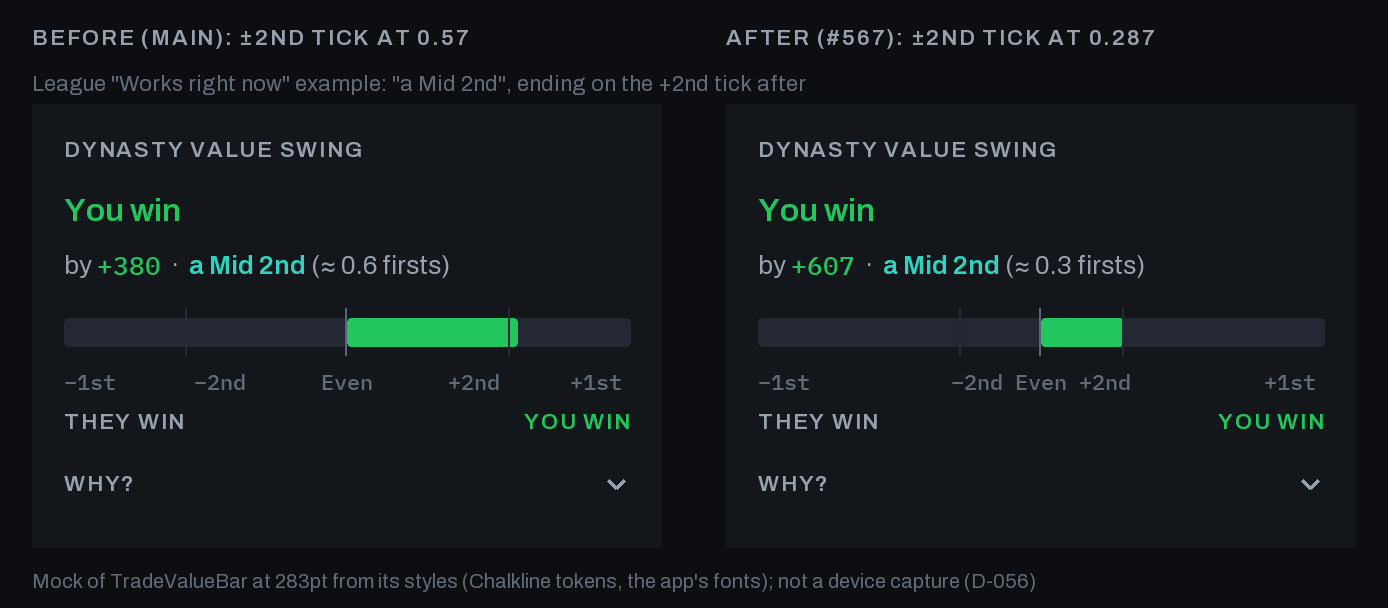
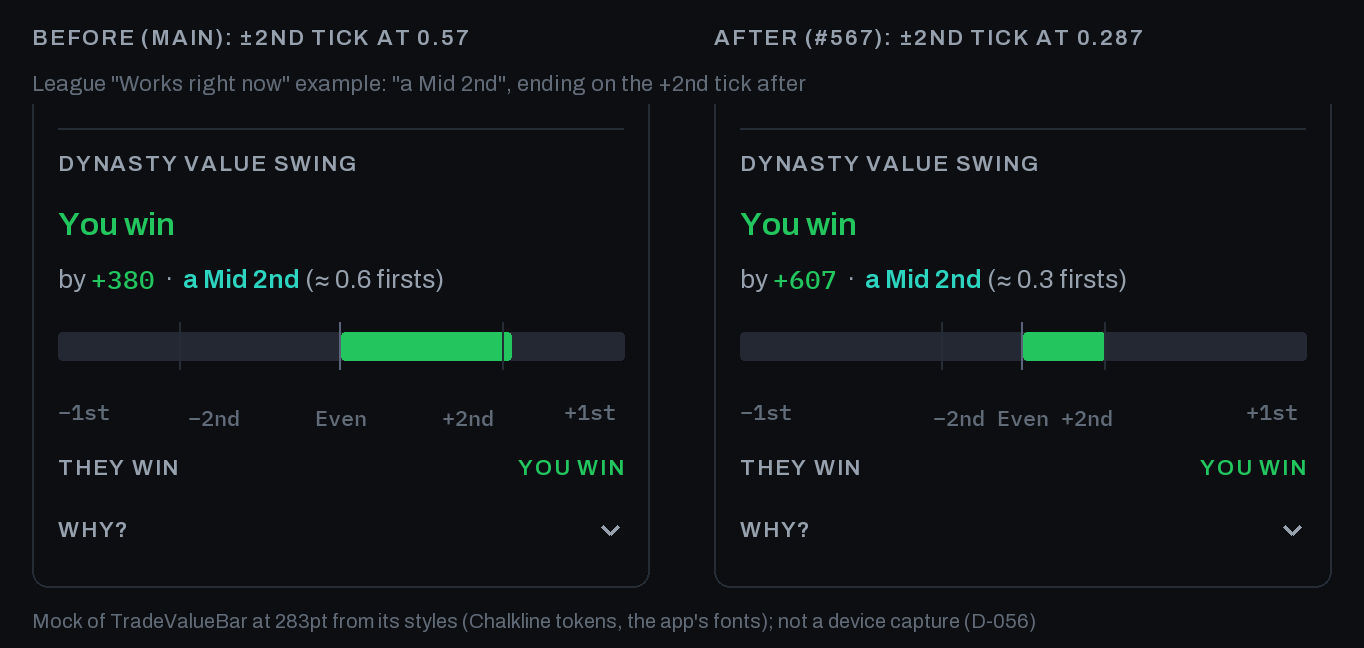
Value bar: renders R1-R4 and an Even case; checklist steps 4-5 name the league they need; crowding called a regression (#567 delta QA)

diff --git a/docs/plans/value-bar-scale/renders/render.py b/docs/plans/value-bar-scale/renders/render.py
@@ -96,37 +96,54 @@ def short_pick(label_):
     return ("an " if core[0] in "AEIOU" else "a ") + core
 
 
-def bar(W, favors, gap, second_in_firsts):
-    """One TradeValueBar, W pt wide, on the ink1 card it sits in (16pt pad)."""
-    pad = 16
-    img = Image.new("RGB", ((W + 2 * pad) * S, 260 * S), INK1)
+def bar(W, favors, gap, second_in_firsts, them="They", surface="deck"):
+    """One TradeValueBar, W pt of bar, in the surface it sits in: a deck card
+    (ink1, 16pt padding), or the League example card's lower half (ink0, 12pt
+    padding inside a 1pt ink.line border, the bar under a hairline with 10pt
+    above it: LeagueScreen exTrade / exValueBar)."""
+    league = surface == "league"
+    pad, bg = (12, INK0) if league else (16, INK1)
+    edge = 1 if league else 0
+    img = Image.new("RGB", ((W + 2 * pad + 2 * edge) * S, 300 * S), bg)
     d = ImageDraw.Draw(img)
-    x0, y = pad * S, pad * S
+    x0, y = (pad + edge) * S, pad * S
+    if league:                                            # exValueBar's hairline
+        d.rectangle((x0, y, x0 + W * S - 1, y + S - 1), fill=LINE)
+        y += S + 10 * S
+    even = favors in ("even", None)
     you_win = favors == "receive"
-    fill_c = POS if you_win else WARN
+    fill_c = ICE if even else POS if you_win else WARN
     firsts = abs(gap["firsts"])
-    frac = min(1, firsts) * (1 if you_win else -1)
+    frac = 0 if even else min(1, firsts) * (1 if you_win else -1)
     pick = gap["pick_equivalent"]
+    winner = None if even else "You" if you_win else them
 
     label(d, x0, y, "Dynasty value swing", DIM)
-    y += 14 * S + 8 * S                                   # gap space.sm
+    y += 14 * S + 8 * S                                   # wrap gap space.sm
     y += 4 * S                                            # winner marginTop
-    text(d, x0, y, ("You" if you_win else "They") + " win", UI_SEMI(16), fill_c, 22)
+    text(d, x0, y, "Even" if even else f"{winner} win", UI_SEMI(16), BASE if even else fill_c, 22)
     y += 22 * S + 8 * S
     x = x0
-    x += text(d, x, y, "by ", UI(13), DIM, 18)
-    x += text(d, x, y, ("+" if you_win else "−") + f"{round(gap['value']):,}", DATA(13), fill_c, 18)
-    x += text(d, x, y, "  ·  ", UI(13), DIM, 18)
-    x += text(d, x, y, short_pick(pick["label"]), UI_SEMI(13), FIRST_1, 18)
-    text(d, x, y, f" (≈ {firsts:.1f} firsts)", UI(13), DIM, 18)
-    y += 18 * S + 8 * S
+    if even:
+        x += text(d, x, y, "Within a rounding error — ", UI(13), DIM, 18)
+        x += text(d, x, y, f"{round(gap['value']):,}", DATA(13), BASE, 18)
+        text(d, x, y, " apart" + (f" (≈ {gap['firsts']:.1f} firsts)" if gap["firsts"] else ""), UI(13), DIM, 18)
+    else:
+        x += text(d, x, y, "by ", UI(13), DIM, 18)
+        x += text(d, x, y, ("+" if you_win else "−") + f"{round(gap['value']):,}", DATA(13), fill_c, 18)
+        x += text(d, x, y, "  ·  ", UI(13), DIM, 18)
+        x += text(d, x, y, short_pick(pick["label"]), UI_SEMI(13), FIRST_1, 18)
+        text(d, x, y, f" (≈ {firsts:.1f} firsts)", UI(13), DIM, 18)
+    y += 18 * S + 8 * S                                   # wrap gap
 
     y += 8 * S                                            # track marginTop
     tw = W * S
-    rail_top = y + 1 * S
+    rail_top = y + 1 * S                                  # 14pt rail centred in 16
     d.rounded_rectangle((x0, rail_top, x0 + tw, rail_top + 14 * S), radius=2 * S, fill=INK3)
     mid = x0 + tw / 2
-    if frac > 0:
+    if even:                                              # the centred 6pt nub
+        d.rounded_rectangle((mid - 3 * S, rail_top, mid + 3 * S, rail_top + 14 * S), radius=2 * S, fill=ICE)
+    elif frac > 0:
         d.rounded_rectangle((mid, rail_top, mid + frac * tw / 2, rail_top + 14 * S), radius=2 * S, fill=fill_c)
     else:
         d.rounded_rectangle((mid + frac * tw / 2, rail_top, mid, rail_top + 14 * S), radius=2 * S, fill=fill_c)
@@ -135,32 +152,39 @@ def bar(W, favors, gap, second_in_firsts):
         tx = x0 + tw * p / 100
         d.rectangle((tx, y - 4 * S, tx + S - 1, y + 20 * S - 1), fill=LINE)
     d.rectangle((mid - S, y - 4 * S, mid - 1, y + 20 * S - 1), fill=LINE_A11Y)
-    y += 16 * S + 8 * S                                   # scale row marginTop
+    y += 16 * S + 8 * S + 8 * S                           # wrap gap + scale row marginTop
 
     scale = DATA(11)
     text(d, x0, y, "−1st", scale, FAINT, 18)
     text(d, x0 + tw - 30 * S, y, "+1st", scale, FAINT, 18)
     frame_x, frame_w = x0 + 30 * S, tw - 60 * S
-    for p, s in ((second_pct, "−2nd"), (50, "Even"), (100 - second_pct, "+2nd")):
-        cx = frame_x + frame_w * p / 100
-        text(d, cx - width(d, s, scale) / 2, y, s, scale, FAINT, 18)
-    y += 18 * S + 4 * S                                   # end row marginTop
-    label(d, x0, y, "They win", DIM if you_win else fill_c)
+    for p, s_ in ((second_pct, "−2nd"), (50, "Even"), (100 - second_pct, "+2nd")):
+        cx = frame_x + frame_w * p / 100                  # the 12pt middle frame,
+        text(d, cx - width(d, s_, scale) / 2, y + 3 * S, s_, scale, FAINT, 18)  # centred in 18
+    y += 18 * S + 8 * S + 4 * S                           # wrap gap + end row marginTop
+    them_end = f"{them} win"
+    label(d, x0, y, them_end, fill_c if winner == them else DIM)
     yw = width(d, "YOU WIN", UI_SEMI(11), 0.88)
     label(d, x0 + tw - yw, y, "You win", fill_c if you_win else DIM)
-    y += 14 * S + 8 * S
+    y += 14 * S + 8 * S                                   # wrap gap
     wy = y + 9 * S                                        # "Why?" row, minHeight 32
     label(d, x0, wy, "Why?", DIM)
     cx, cy = x0 + tw - 7 * S, wy + 7 * S                  # chevron-down, 14pt
     d.line((cx - 4 * S, cy - 2 * S, cx, cy + 2 * S, cx + 4 * S, cy - 2 * S), fill=DIM, width=round(1.5 * S))
     y += 32 * S + pad * S
-    return img.crop((0, 0, img.width, y))
+    img = img.crop((0, 0, img.width, y + edge * S))
+    if league:                                            # the card's border
+        d = ImageDraw.Draw(img)
+        w_, h_ = img.width, img.height
+        d.rounded_rectangle((0, -8 * S, w_ - 1, h_ - 1), radius=8 * S, outline=LINE, width=S)
+    return img
 
 
-def sheet(name, W, cases):
+def sheet(name, W, cases, them="They", surface="deck"):
     """Rows of cases, a before (0.57) and an after (0.287) column each."""
     cols = [("Before (main): ±2nd tick at 0.57", 0.57), ("After (#567): ±2nd tick at 0.287", 0.287)]
-    tiles = [[bar(W, favors, gap_b if i == 0 else gap_a, second) for i, (_, second) in enumerate(cols)]
+    tiles = [[bar(W, favors, gap_b if i == 0 else gap_a, second, them, surface)
+              for i, (_, second) in enumerate(cols)]
              for _, favors, gap_b, gap_a in cases]
     m, top, gap_x, row_h = 16 * S, 34 * S, 32 * S, 26 * S
     tw, th = tiles[0][0].width, max(t.height for row in tiles for t in row)
@@ -183,13 +207,17 @@ def sheet(name, W, cases):
 
 mid_2nd = elo_to_value(GENERIC_PICK_SEEDS[(2, "Mid")])
 early_2nd = elo_to_value(GENERIC_PICK_SEEDS[(2, "Early")])
-# A calculator or deck card on a 375pt phone (317pt of bar).
+# A deck card on a 375pt phone (317pt of bar; TradeCard passes the partner's
+# handle as themLabel). The calculator's bar is 309pt, the same drawing.
+even = {**gap_for(250), "pick_equivalent": None}
 sheet("before-after-317.png", 317, [
     ("You win by an Early 2nd: the fill ends past the +2nd tick (it stopped short of it before)",
      "receive", gap_for(early_2nd), gap_for(early_2nd)),
-    ("They win by a Mid 2nd: the fill ends on the −2nd tick",
+    ("@mike_dynasty wins by a Mid 2nd: the fill ends on the −2nd tick",
      "give", gap_for(mid_2nd), gap_for(mid_2nd)),
-])
+    ("Even (250 apart): the centred nub, unchanged; only the ticks move",
+     "even", even, even),
+], them="@mike_dynasty")
 # The League "Works right now" example card (283pt of bar): main's fixture
 # (380, 0.6 firsts, "a Mid 2nd") before, today's Mid 2nd after (P2-1).
 old_example = {"value": 380, "firsts": 0.6,
@@ -199,5 +227,5 @@ new_example = {"value": 607, "firsts": 0.29,
 sheet("before-after-283.png", 283, [
     ("League \"Works right now\" example: \"a Mid 2nd\", ending on the +2nd tick after",
      "receive", old_example, new_example),
-])
+], surface="league")
 print("ok")

diff --git a/docs/plans/value-bar-scale/scope.md b/docs/plans/value-bar-scale/scope.md
@@ -17,7 +17,7 @@
 - **The League "Works right now" example** (`LeagueScreen.tsx` `EXAMPLE_GAP`, every user with no matches sees it) was the clients' only static gap. It said "a Mid 2nd (≈ 0.6 firsts)" at 380, which with the new tick fills far past it. It's now what the server would send for a Mid 2nd gap: 607, 0.29 firsts, pick value 606.5 (release-lead's #567 QA P2-1).
 - **What this doesn't cover:**
   - **A live prod `elo_value_k` change** moves the server's values, and so #564's share-card bar and its snapshots, but not the app's constant or the web miniature, with CI green: the pin reads the code's seeds and curve, not prod's `model_config`. If `elo_value_k` is ever changed live, this constant must follow by hand.
-  - **Label crowding:** the ±2nd labels sit in a frame inset 30pt from each end while the ticks span the whole track, so each label sits about 8.6pt inboard of its tick. With the ticks closer to "Even", "−2nd" and "+2nd" overlap "Even" from text scale 1.21 at 283pt of bar (the League example on a 375pt phone) and from 1.29 at 298pt. Deck cards are clear. Moving the labels into the ticks' frame is a follow-up for design.
+  - **Label crowding:** the ±2nd labels sit in a frame inset 30pt from each end while the ticks span the whole track, so each label sits about 8.6pt inboard of its tick. **It's a regression of this change:** with the ticks closer to "Even", "−2nd" and "+2nd" overlap "Even" from text scale 1.21 at 283pt of bar (the League example on a 375pt phone; it was 2.41 before) and from 1.29 at 298pt. Deck cards are clear at default sizes. Moving the labels into the ticks' frame is a follow-up for design.
 
 ## 1. Analytics scope
 - [x] **(c) WAIVED. No analytics needed:** no event is added or changed.
@@ -28,18 +28,19 @@
 ## 3. Evidence scope
 - [x] **Unit tests:** `backend/tests/test_value_bar_scale.py`.
   - It pins the app's `SECOND_IN_FIRSTS` to the seeds' ratio (±0.005), and the web miniature's four landmark positions to it (±0.1%).
-  - It pins the League example's `EXAMPLE_GAP` to a Mid 2nd at today's values: its label, pick value, value and `firsts`.
+  - It pins the League example's `EXAMPLE_GAP` to a Mid 2nd at today's values: its label, the top-level `value` and `firsts` (read at their own indent, so the nested pick's `value` can't stand in for them: release-lead's #567 delta QA P2), and `pick_equivalent.value`. A top-level 380 or 9999, or `firsts` 0.6, fails it.
   - **Main's 0.57 fails it, and so does main's 380 / 0.6 example.**
-- [x] **Before/after renders**, for the operator's design review: `renders/before-after-317.png` (a calculator or deck card on a 375pt phone) and `renders/before-after-283.png` (the League example card).
+- [x] **Before/after renders**, for the operator's design review: `renders/before-after-317.png` (a deck card on a 375pt phone, 317pt of bar, the partner's handle as the "they" label; the calculator's 309pt bar draws the same) and `renders/before-after-283.png` (the League example card: `ink0`, 12pt padding, the bar under a hairline). The 317 sheet adds an Even case, the centred nub.
   - `renders/render.py` draws `TradeValueBar` from its own styles, collapsed as every mount starts: the app's tokens and fonts, the 14pt `ink3` rail with `ink.line` ticks, the fill in `semantic.pos` / `semantic.warn`, and the scale labels in chalk.faint Plex Mono in their inset frame.
   - Each case's copy and fill come from the server's own `_pick_gap_equivalent`. They're mocks, not device captures (D-056).
   - The first render (release-lead's #567 QA P2-2) was a geometry sketch: the wrong colours and fonts, bright ticks, and a "+1,840 · ≈ a Late 1st" reading the server would call a Mid 1st. Redrawn.
+  - The second (delta QA R1–R4) skipped the wrap's 8pt gap before the scale row and the end row (16pt short), drew the middle scale labels level with "±1st" (they sit 3pt lower: the 12pt middle row is centred in the 18pt row), put the League bar on `ink1` with 16pt padding, and gave the deck card "They win". Fixed against release-lead's react-native-web measurements.
 - [x] **Manual TestFlight checklist** (operator, 11-06 binary). The cue for steps 1–3: each ±2nd tick sits about a third of the way from Even to the end of the bar. The old build had it past halfway.
   1. **Calculator**, a trade whose gap reads "an Early 2nd" (0.35–0.56 firsts): the fill ends clearly past the +2nd (or −2nd) tick. The old build stopped short of it.
   2. **A trade reading "a Mid 2nd":** the fill ends at about the 2nd tick.
   3. **A "They win" trade:** the fill grows left, in amber, against the −2nd tick the same way. And **a deck card's value bar** shows the ticks in the same place.
-  4. **League tab, "Works right now" example card** (shown with no matches): it reads "You win by +607 · a Mid 2nd (≈ 0.3 firsts)", and the fill ends on the +2nd tick.
-  5. **iPhone Settings → Accessibility → Display & Text Size → Larger Text at its largest standard size**, back on the League example: the bar and its labels still render. The ±2nd labels may crowd "Even"; that's the known label-frame follow-up above, not a regression of this change.
+  4. **League tab, "Works right now" example card.** It shows only in a league with 0 mutual and 0 awaiting matches; switch to one first (or a fresh league). It reads "You win by +607 · a Mid 2nd (≈ 0.3 firsts)", and the fill ends on the +2nd tick.
+  5. **iPhone Settings → Accessibility → Display & Text Size → Larger Text at its largest standard size**, back on the same League example (same league as step 4): the bar and its labels still render. "−2nd" and "+2nd" will crowd or overlap "Even" at this size: a **known regression of this change** (it started at 2.41 before, 1.21 now), with the label-frame fix as a design follow-up above. Note how bad it looks for design.
   - **Web, not TestFlight** (it ships with the Render deploy): the landing page's step 03 view, "Real offers", shows the miniature's ±2nd ticks about a third of the way from Even.
 - `testID`s added/renamed: none.
 
@@ -50,7 +51,7 @@
 | `docs/api-reference.md` | n/a | no route or payload change |
 | `living-memory/LLD.md` | n/a | no convention shift |
 | `docs/architecture.md` / `living-memory/HLD.md` | n/a | no wiring change |
-| `docs/cross-client-invariants.md` | updated | "Trade value-verdict shape": the ±2nd landmark, its source and the pin. #564 adds a line saying the app still uses 0.57: whichever of #564 and #567 lands second drops it |
+| `docs/cross-client-invariants.md` | updated | "Trade value-verdict shape": the ±2nd landmark, its source and the pin |
 | `docs/design/components.md` | updated | TradeValueBar's "≈0.57" and the web miniature's "21.5%/78.5%" (release-lead's #567 QA P3) |
 | `docs/glossary.md` / ADR / `DECISIONS.md` | n/a | no new term or decision; a stale constant corrected |
 

diff --git a/living-memory/TEST_LEDGER.md b/living-memory/TEST_LEDGER.md
@@ -1,3 +1,18 @@
+## 2026-10-31 — The value bar, release-lead's #567 delta QA (GO-with-notes): the example test's indent, renders R1–R4, checklist wording
+
+- **P2, the test:** `^\s*(value|firsts)` also matched `pick_equivalent.value: 606.5`, which shadowed the top-level `value`, so the value users see was never checked. It now reads the top level at its two-space indent and requires both keys. A top-level 380 or 9999, or `firsts` 0.6, fails it; all three were green before.
+- **Renders:**
+  - **R1:** the wrap's 8pt gap before the scale row and the end row. The mock was 16pt short.
+  - **R2:** the middle scale labels sit 3pt lower: the 12pt middle row is centred in the 18pt row.
+  - **R3:** the League bar is on the example card, `ink0` with 12pt padding, under its hairline, inside the 1pt border.
+  - **R4:** the 317 sheet is a deck card, with "@mike_dynasty win" as TradeCard passes the handle. The calculator's 309pt bar draws the same.
+  - **Optional:** an Even case shows the centred nub. Re-running `render.py` reproduces both PNGs.
+- **Checklist and scope:**
+  - steps 4–5 say to switch to a league with 0 mutual and 0 awaiting matches;
+  - step 5 and the scope call the label crowding what it is, a regression of this change (it started at text scale 2.41 before, 1.21 now at 283pt), with the design follow-up;
+  - the stale #564 "still 0.57" note is removed, since #564's 30ef8349 dropped that line.
+- **Runs:** `test_value_bar_scale.py` 3 passed.
+
 ## 2026-10-31 — The value bar, release-lead's #567 QA (GO-with-notes): the League example, renders from the app's tokens, a checklist that discriminates
 
 Gates: release-lead's #567 QA, with three P2s before the 11-06 binary. Client-only plus a backend test; no schema, flag, event or route change. D-056: `FTF_SKIP_SIM_GATE=1` posture.
@@ -9,7 +24,6 @@ Gates: release-lead's #567 QA, with three P2s before the 11-06 binary. Client-on
   - `docs/design/components.md`'s "≈0.57" and "21.5%/78.5%" are fixed, and the file is now in the docs table;
   - the scope notes that a live `elo_value_k` change wouldn't move the app's constant;
   - the scope notes the label crowding at large text (a design follow-up);
-  - the scope notes that whichever of #564 / #567 lands second drops #564's "still 0.57" line.
 - **Runs:** `test_value_bar_scale.py` 3 passed.
 
 ## 2026-10-31 — The value bar's ±2nd landmark at today's Mid 2nd / Mid 1st (0.57 → 0.287)
